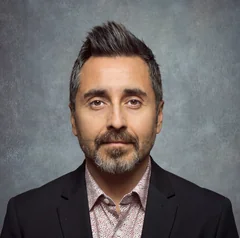
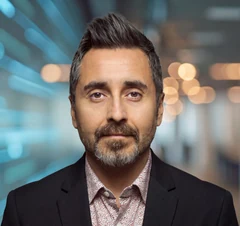
Replace executive portraits and sharing image with approved bokeh photos

diff --git a/index.html b/index.html
@@ -11,7 +11,7 @@
   <meta property="og:url" content="https://cotago.co/">
   <meta property="og:title" content="John Cota | Executive Brand, Creative &amp; Transformation Leader">
   <meta property="og:description" content="John Cota builds enterprise brands, teams, partnerships and operating models. Explore leadership case studies, applied AI and automation, and his executive résumé.">
-  <meta property="og:image" content="https://cotago.co/assets/portraits/cota-front-profile.jpg">
+  <meta property="og:image" content="https://cotago.co/assets/portraits/john-cota-bokeh-profile.jpg">
   <meta property="og:image:alt" content="Portrait of John Cota">
   <link rel="preconnect" href="https://fonts.googleapis.com">
   <link rel="preconnect" href="https://fonts.gstatic.com" crossorigin>
@@ -38,10 +38,10 @@
             </div>
           </div>
         </div>
-        <img class="hero-portrait" src="assets/portraits/cota-side-768.webp"
-          srcset="assets/portraits/cota-side-480.webp 480w, assets/portraits/cota-side-768.webp 768w, assets/portraits/cota-side-1200.webp 1200w"
-          sizes="(max-width: 760px) calc(100vw - 40px), (max-width: 1100px) 40vw, (max-width: 1552px) 38vw, 560px"
-          width="768" height="942" fetchpriority="high" alt="John Cota in a three-quarter portrait">
+        <img class="hero-portrait" src="assets/portraits/john-cota-bokeh-wide-768.webp"
+          srcset="assets/portraits/john-cota-bokeh-wide-480.webp 480w, assets/portraits/john-cota-bokeh-wide-768.webp 768w, assets/portraits/john-cota-bokeh-wide-1200.webp 1200w, assets/portraits/john-cota-bokeh-wide-1920.webp 1920w"
+          sizes="(max-width: 760px) calc(120vw - 48px), (max-width: 1100px) 58vw, (max-width: 1552px) 55vw, 804px"
+          width="768" height="429" fetchpriority="high" alt="John Cota smiling against a softly blurred background">
       </div>
       <p class="shell work-label eyebrow" id="case-studies-title">Leadership case studies</p>
       <div class="shell work-gallery" role="region" aria-labelledby="case-studies-title">
@@ -238,10 +238,10 @@
           <p><a class="text-link" href="#ai">Explore my AI practice <span aria-hidden="true">→</span></a></p>
           <p>Photography still shapes how I work. It keeps me looking closely at the people, places and details that can change how a problem is understood.</p>
           <div class="contact-block">
-            <img class="contact-portrait" src="assets/portraits/cota-front-240.webp"
-              srcset="assets/portraits/cota-front-240.webp 240w, assets/portraits/cota-front-480.webp 480w"
-              sizes="(max-width: 540px) 72px, 112px" width="240" height="238" loading="lazy" decoding="async"
-              alt="John Cota in a front-facing portrait">
+            <img class="contact-portrait" src="assets/portraits/john-cota-bokeh-front-240.webp"
+              srcset="assets/portraits/john-cota-bokeh-front-240.webp 240w, assets/portraits/john-cota-bokeh-front-480.webp 480w"
+              sizes="(max-width: 540px) 72px, 112px" width="240" height="226" loading="lazy" decoding="async"
+              alt="John Cota in a front-facing portrait with a softly blurred background">
             <div class="contact-details">
               <h2 class="eyebrow">Contact John</h2>
               <a class="email-link" href="mailto:john@cotago.co?subject=Executive%20site%20inquiry">john@cotago.co <span aria-hidden="true">↗</span></a>

diff --git a/styles.css b/styles.css
@@ -139,7 +139,7 @@ body[data-scene=ai] .story-route { display: none; }
   height: auto;
   aspect-ratio: 5 / 4;
   object-fit: cover;
-  object-position: 50% 32%;
+  object-position: 78% 50%;
   border-radius: 2px;
   background: #54515a;
 }
